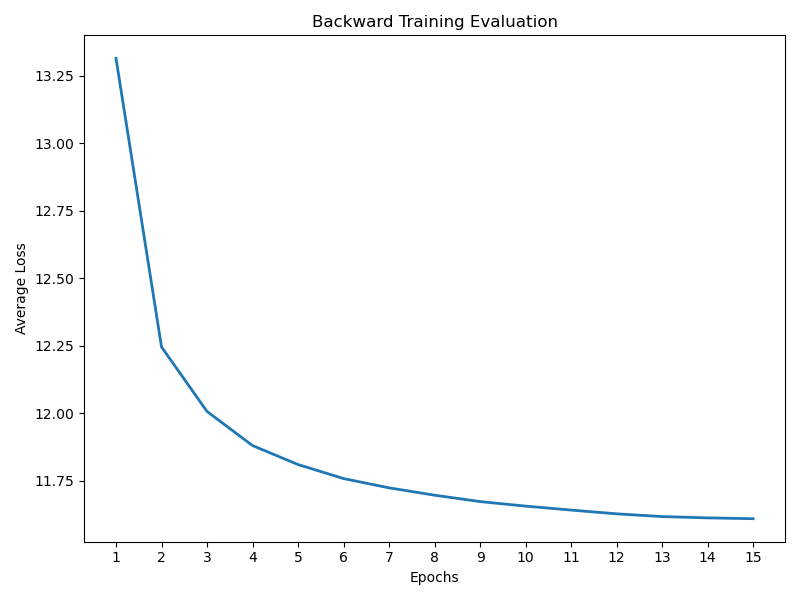
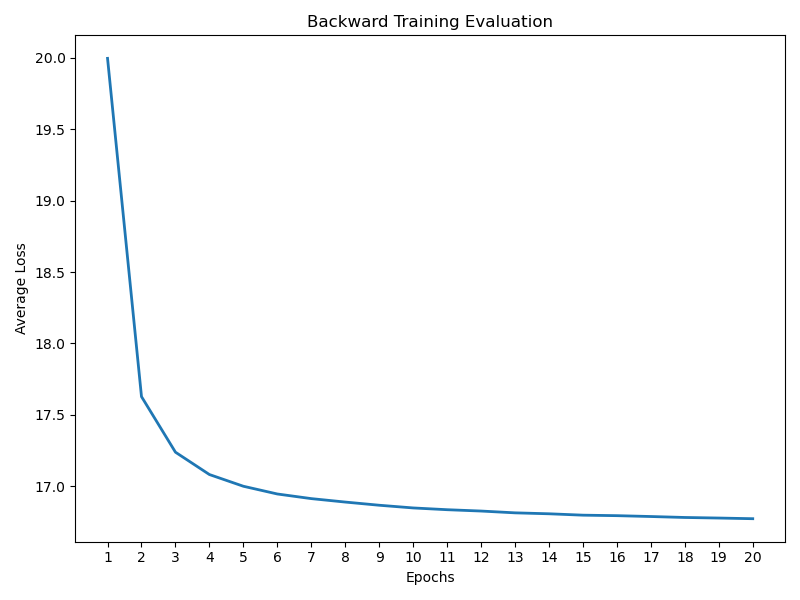
back_train improved

diff --git a/week1/modular_code/network.py b/week1/modular_code/network.py
@@ -12,46 +12,42 @@ class Net(nn.Module):
 
     def __init__(self):
         super().__init__()
-        self.conv1 = nn.Conv2d(3, 6, 5)
-        self.pool = nn.MaxPool2d(2, 2)
-        self.conv2 = nn.Conv2d(6, 16, 5)
-        self.fc1 = nn.Linear(16*5*5, 120)
+        self.conv1 = nn.Conv2d(in_channels=3,out_channels= 6,kernel_size= 5,stride=1,padding=2)
+        self.pool = nn.MaxPool2d(2, 2, return_indices=True)
+        self.conv2 = nn.Conv2d(in_channels=6,out_channels= 16,kernel_size= 5,stride=1,padding=2)
+        self.fc1 = nn.Linear(16*8*8, 120)
         self.fc2 = nn.Linear(120, 84)
         self.fc3 = nn.Linear(84, 10)
 
         self.fc3_fb = nn.Linear(10, 84)
         self.fc2_fb = nn.Linear(84, 120)
-        self.fc1_fb = nn.Linear(120, 16*5*5)
-        self.deconv2_fb = nn.ConvTranspose2d(16, 6, 5, stride=1, padding=0)
-        self.unpool1 = nn.Upsample(
-            size=(14, 14), mode='bilinear', align_corners=False)
-        self.deconv1_fb = nn.ConvTranspose2d(
-            6, 3, 5, stride=2, padding=2, output_padding=1)
-        self.final_upsample = nn.Upsample(
-            size=(32, 32), mode='bilinear', align_corners=False)
+        self.fc1_fb = nn.Linear(120, 16*8*8)
+        self.deconv2_fb=nn.ConvTranspose2d(in_channels=16,out_channels=6,kernel_size=5,stride=1,padding=2)
+        self.deconv1_fb=nn.ConvTranspose2d(in_channels=6,out_channels=3,kernel_size=5,stride=1,padding=2)
+        self.unpool=nn.MaxUnpool2d(kernel_size=2, stride=2)
+
 
     def feedforward_pass(self, x):
 
-        ft_AB = self.pool(F.relu(self.conv1(x)))
-        ft_BC_will_flatten = self.pool(F.relu(self.conv2(ft_AB)))
-        ft_BC = torch.flatten(ft_BC_will_flatten, 1)  # Flatten all dimensions except batch
-        ft_CD = F.relu(self.fc1(ft_BC))
+        ft_AB,indices_AB = self.pool(F.relu(self.conv1(x)))
+        ft_BC,indices_BC = self.pool(F.relu(self.conv2(ft_AB)))
+        ft_BC_flat = torch.flatten(ft_BC, 1)  # Flatten all dimensions except batch
+        ft_CD = F.relu(self.fc1(ft_BC_flat))
         ft_DE = F.relu(self.fc2(ft_CD))
         output = self.fc3(ft_DE)
 
-        return ft_AB, ft_BC_will_flatten, ft_CD, ft_DE, output
+        return ft_AB, ft_BC, ft_CD, ft_DE, output,indices_AB,indices_BC
     
-    def feedback_pass(self,output):
+    def feedback_pass(self,output,indices_AB,indices_BC,ft_AB,ft_BC,ft_CD,ft_DE):   
 
-        #Now once you have the features you just go back in the opposite direction and then reconstruct the input and adjust the weights based on the error 
-        ft_ED=F.relu(self.fc3_fb(output))
-        ft_DC=F.relu(self.fc2_fb(ft_ED))
-        ft_CB=F.relu(self.fc1_fb(ft_DC))
-        ft_CB = ft_CB.view(-1, 16, 5, 5)
-        ft_BA=F.relu(self.deconv2_fb(ft_CB))
-        ft_BA=self.unpool1(ft_BA)
-        x=self.deconv1_fb(ft_BA)
-        #This should be the input
-        x=self.final_upsample(x) 
+        ft_ED=self.fc3_fb(output)
+        ft_DC=F.relu(self.fc2_fb(ft_DE))
+        ft_CB=F.relu(self.fc1_fb(ft_CD))
+        ft_CB = ft_CB.view(-1, 16, 8, 8)
+        # This matches the forward pass structure correctly
+        ft_BC_unpool = F.relu(self.unpool(ft_BC, indices_BC))  # Reconstruct from 8x8 to 16x16
+        ft_BA = self.deconv2_fb(ft_BC_unpool)          # Then apply deconv
+        ft_BA_unpooled = F.relu(self.unpool(ft_BA, indices_AB)) # Reconstruct from 16x16 to 32x32
+        x = self.deconv1_fb(ft_BA_unpooled)              # Final deconv
 
         return ft_BA, ft_CB, ft_DC, ft_ED, x

diff --git a/week1/modular_code/back_train.py b/week1/modular_code/back_train.py
@@ -29,7 +29,7 @@ def feedback_training(net,trainloader,testloader):
         for param in module.parameters():
             param.requires_grad = True
 
-    criterion_recon = nn.MSELoss()
+    criterion_recon = nn.functional.mse_loss
     optimizer_bck = optim.SGD(list(net.deconv2_fb.parameters())+list(net.deconv1_fb.parameters())+list(net.fc1_fb.parameters())+list(net.fc2_fb.parameters())+list(net.fc3_fb.parameters()), lr=0.001, momentum=0.9)
     loss_arr = []
     for epoch in range(epochs):
@@ -37,13 +37,21 @@ def feedback_training(net,trainloader,testloader):
         for batch_idx, batch in enumerate(trainloader):
             images, labels = batch
             optimizer_bck.zero_grad()
-            ft_AB,ft_BC,ft_CD,ft_DE,output=net.feedforward_pass(images)
-            ft_BA,ft_CB,ft_DC,ft_ED,xpred = net.feedback_pass(output)
+            ft_AB,ft_BC,ft_CD,ft_DE,output,indices_AB,indices_BC=net.feedforward_pass(images)
+            ft_BA,ft_CB,ft_DC,ft_ED,xpred = net.feedback_pass(output,indices_AB,indices_BC,ft_AB,ft_BC,ft_CD,ft_DE)
+            # # Flatten ft_BC for comparison with ft_CB (which is also flattened in feedback)
+            # ft_BC = ft_BC.view(ft_BC.size(0), -1)
+            # ft_CB = ft_CB.view(ft_CB.size(0), -1)
             lossAtoB = criterion_recon(ft_AB, ft_BA)
             lossBtoC = criterion_recon(ft_BC, ft_CB)
             lossCtoD = criterion_recon(ft_CD, ft_DC)
             lossDtoE = criterion_recon(ft_DE, ft_ED)
             loss_input_and_recon = criterion_recon(xpred, images)
+            print("lossAtoB",lossAtoB)
+            print("lossBtoC",lossBtoC)
+            print("lossCtoD",lossCtoD)
+            print("lossDtoE",lossDtoE)
+            print("loss_input_and_recon",loss_input_and_recon)
             final_loss=lossAtoB+lossBtoC+lossCtoD+lossDtoE+loss_input_and_recon
             final_loss.backward()
             optimizer_bck.step()

diff --git a/week1/modular_code/eval_and_plotting.py b/week1/modular_code/eval_and_plotting.py
@@ -16,7 +16,7 @@ def evaluation_metric(net,direction,testloader):
     with torch.no_grad():
         for batch_idx, batch in enumerate(testloader):
             images, labels = batch
-            _,_,_,_,output = net.feedforward_pass(images)
+            _,_,_,_,output,_,_ = net.feedforward_pass(images)
             _, predicted = torch.max(output, 1)
             total_correct += (predicted == labels).sum().item()
             total_samples += labels.size(0)
@@ -36,13 +36,13 @@ def evaluation_reconstruction(net,testloader):
     with torch.no_grad():
         for batch_idx, batch in enumerate(testloader):
             images, labels = batch
-            _,_,_,_,output = net.feedforward_pass(images)
-            _,_,_,_, xpred = net.feedback_pass(output)
+            ft_AB,ft_BC,ft_CD,ft_DE,output,indices_AB,indices_BC = net.feedforward_pass(images)
+            _,_,_,_, xpred = net.feedback_pass(output,indices_AB,indices_BC,ft_AB,ft_BC,ft_CD,ft_DE)
             diff=torch.abs(xpred-images)
             correct=(diff<threshold).float().sum().item()
             total=images.numel()
-            correct_pixels=+correct
-            total_pixels=+total
+            correct_pixels+=correct
+            total_pixels+=total
 
     accuracy = 100 * (correct_pixels / total_pixels)
 

diff --git a/week1/modular_code/fwd_train.py b/week1/modular_code/fwd_train.py
@@ -38,9 +38,9 @@ def feedfwd_training(net,trainloader,testloader):
         for batch_idx, batch in enumerate(trainloader):
             images, labels = batch
             optimizer_fwd.zero_grad()
-            ft_AB,ft_BC,ft_CD,ft_DE,ypred = net.feedforward_pass(images)
+            ft_AB,ft_BC,ft_CD,ft_DE,ypred,_,_ = net.feedforward_pass(images)
             loss = criterion(ypred, labels)
-            loss.backward(retain_graph=True)
+            loss.backward()
             optimizer_fwd.step()
             running_loss.append(loss.item())
 

diff --git a/week1/modular_code/config.py b/week1/modular_code/config.py
@@ -1,2 +1,2 @@
 batch_size=4
-epochs=15
+epochs=12
